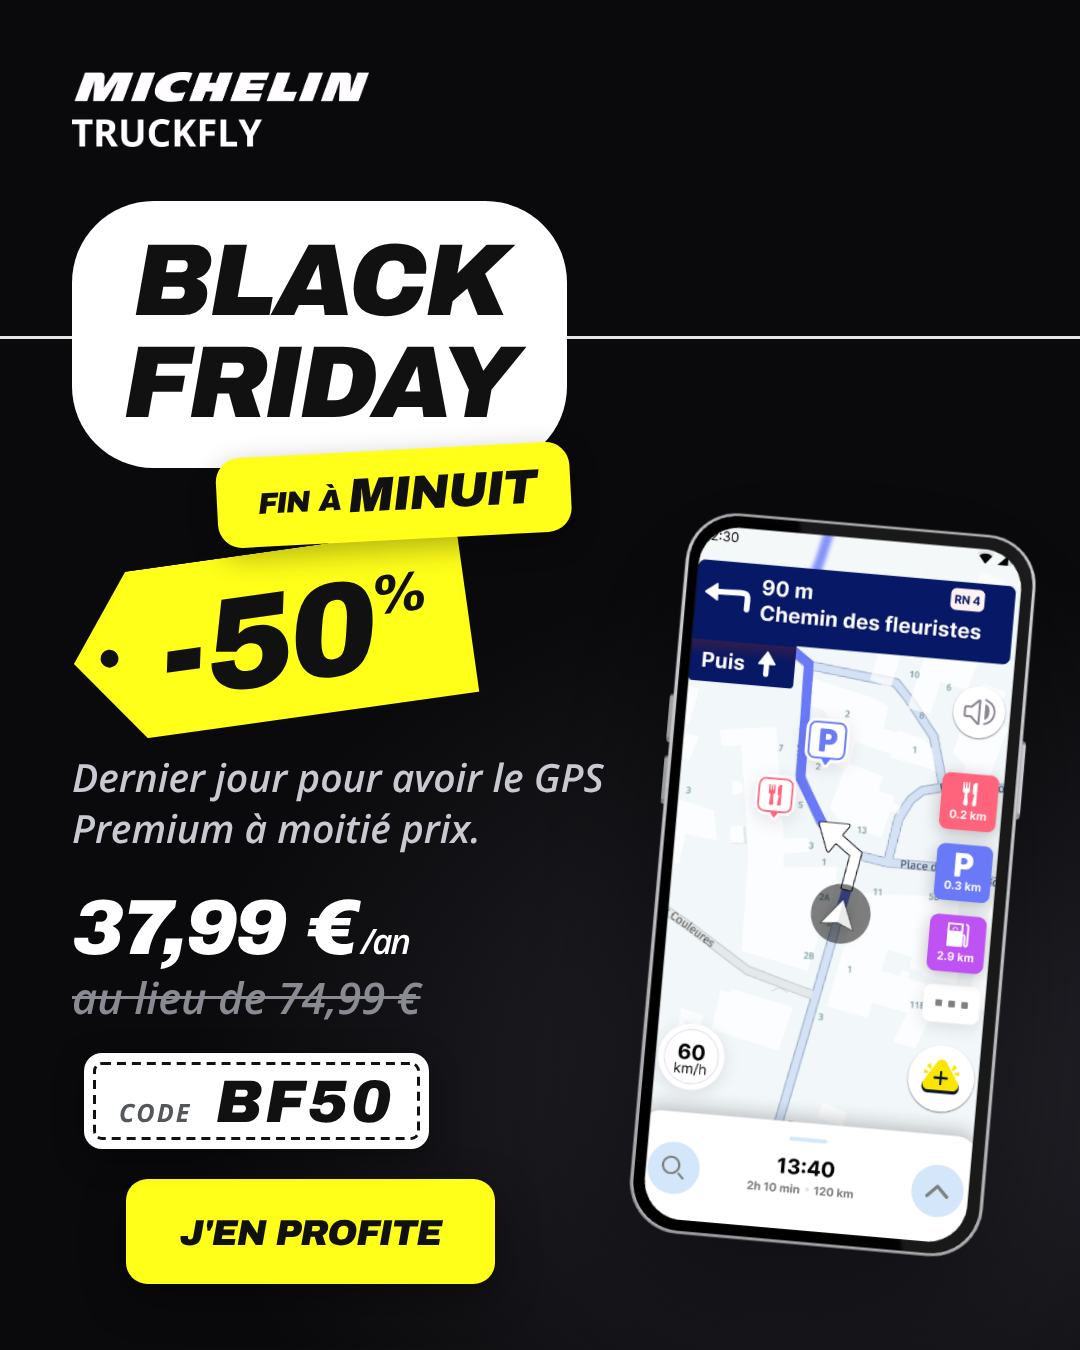
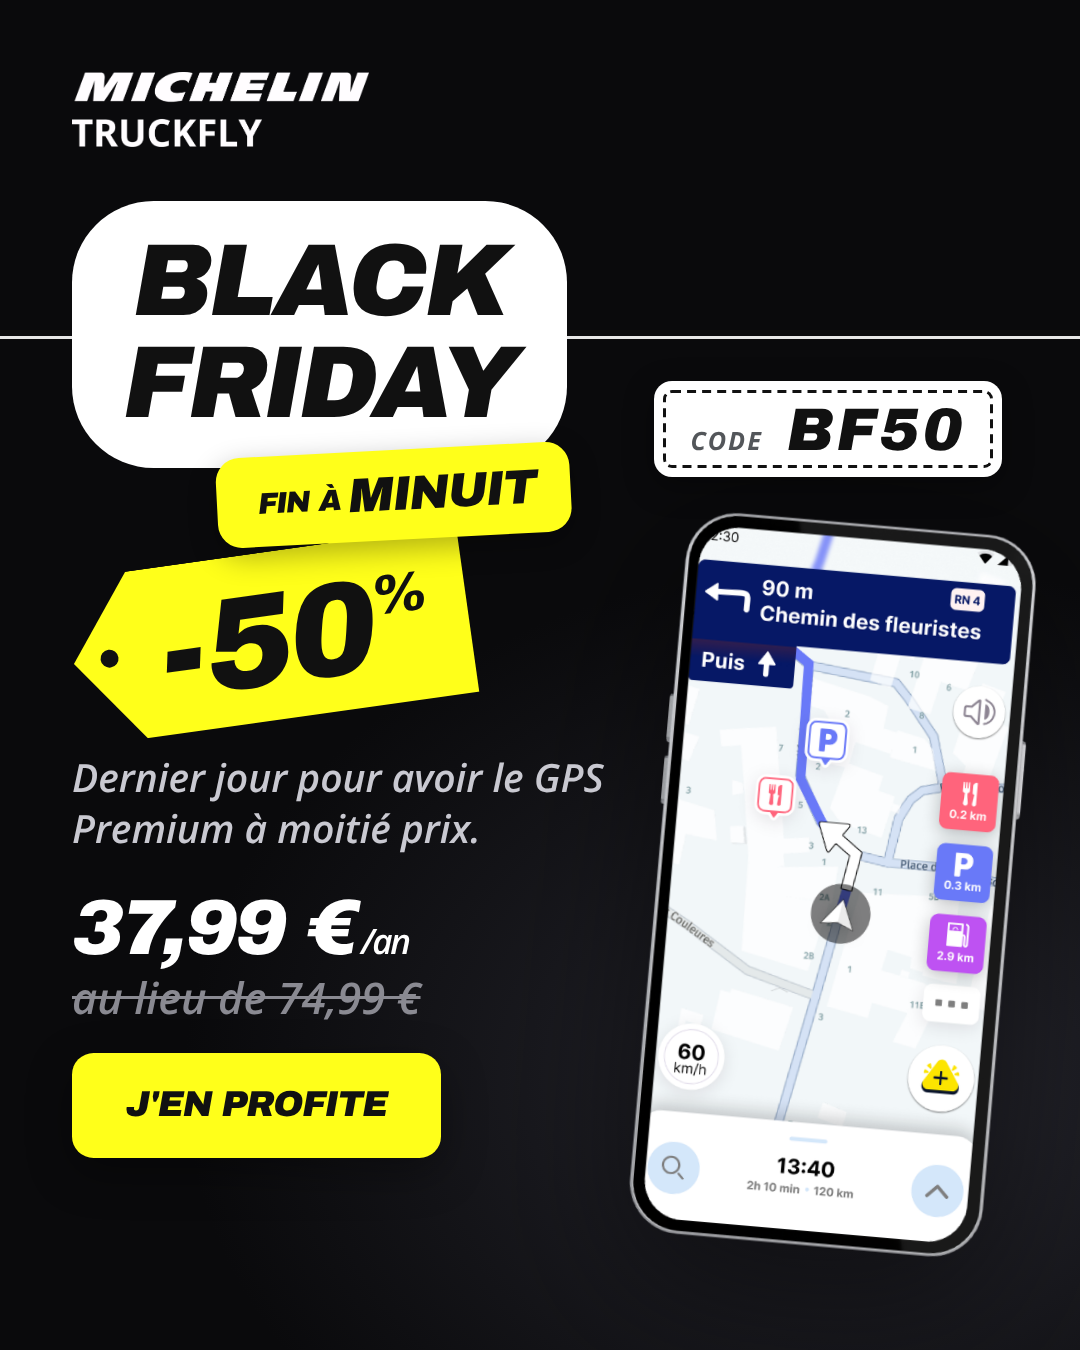
Black Friday: Meta posts, CTA back on the left, BF50 code above the phone
Claude-Session: https://claude.ai/code/session_01Dxf6WNpnQxv74aPZfAxqSJ

Changed region(s): [[0.0611, 0.7778, 0.4583, 0.9644], [0.5806, 0.28, 0.9472, 0.3733]]

diff --git a/black-friday/campagne.html b/black-friday/campagne.html
@@ -152,9 +152,8 @@ figcaption b { color: #111; }
 .code small { font: italic 700 .42em "Texte"; letter-spacing: .08em; text-transform: uppercase; color: #53565A; }
 .ligne-code { position: relative; z-index: 3; display: flex; justify-content: center; margin-top: 1.4em; }
 .post .code { font-size: 2em; }
-/* Code et bouton empilés, bouton centré sous le coupon */
-.post .offre-bas { align-self: flex-start; display: flex; flex-direction: column; align-items: center; gap: 1em; }
-.post .offre-bas .cta { align-self: center; position: relative; left: 1.5em; }
+/* Coupon du code en haut à droite, au-dessus du téléphone */
+.post .code-haut { position: absolute; z-index: 3; right: 2.4em; top: 12.7em; width: 12em; display: flex; justify-content: center; }
 .post.offre .gauche { gap: 1.05em; margin-top: 2.8em; }
 .funnel .ligne-prix { display: flex; align-items: center; gap: 1.6em; }
 .funnel .tag { flex: none; }
@@ -278,10 +277,10 @@ const ligneprixFR = () => lignePrix(FR);
 const storyFin = (date, compte) => S("fin", `${titre(date)}<p class="compte">${compte}</p>${ligneprixFR()}${ligneCode(FR)}${tel(1)}<div class="bas">${cta(FR.profite)}</div>`);
 
 /* ===== Posts Meta (FR, 1080 × 1350) ===== */
-const P = (cls, date, gauche, lum) => `<div class="kv post ${cls}" style="--w:360px;--h:450px;--u:10px">${logo}${titre(date)}<div class="gauche">${gauche}</div>${tel(lum)}</div>`;
+const P = (cls, date, gauche, lum, extra = "") => `<div class="kv post ${cls}" style="--w:360px;--h:450px;--u:10px">${logo}${titre(date)}<div class="gauche">${gauche}</div>${extra}${tel(lum)}</div>`;
 const postTeasing = () => P("question", FR.dTeasing, `<h3 class="accroche">${FR.question}</h3><p class="sous">${FR.rdv}</p>${rdv("Le 27/11 dans l'app")}`, .3);
-const postJourJ = () => P("offre", `<small>c'est parti !</small>`, `${tag}<p class="sous">Le GPS Premium à moitié prix, jusqu'au 30/11.</p>${prix(FR)}<div class="offre-bas">${code(FR)}${cta(FR.profite)}</div>`, 1);
-const postDernier = () => P("offre", FR.dFin, `${tag}<p class="sous">Dernier jour pour avoir le GPS Premium à moitié prix.</p>${prix(FR)}<div class="offre-bas">${code(FR)}${cta(FR.profite)}</div>`, 1);
+const postJourJ = () => P("offre", `<small>c'est parti !</small>`, `${tag}<p class="sous">Le GPS Premium à moitié prix, jusqu'au 30/11.</p>${prix(FR)}${cta(FR.profite)}`, 1, `<div class="code-haut">${code(FR)}</div>`);
+const postDernier = () => P("offre", FR.dFin, `${tag}<p class="sous">Dernier jour pour avoir le GPS Premium à moitié prix.</p>${prix(FR)}${cta(FR.profite)}`, 1, `<div class="code-haut">${code(FR)}</div>`);
 
 /* ===== Messages in-app (par langue, 1170 × 2532) ===== */
 const M = (cls, inner) => `<div class="kv v iam fondu ${cls}" style="--w:390px;--h:844px;--u:${390 / 36}px">${logo}${inner}</div>`;
